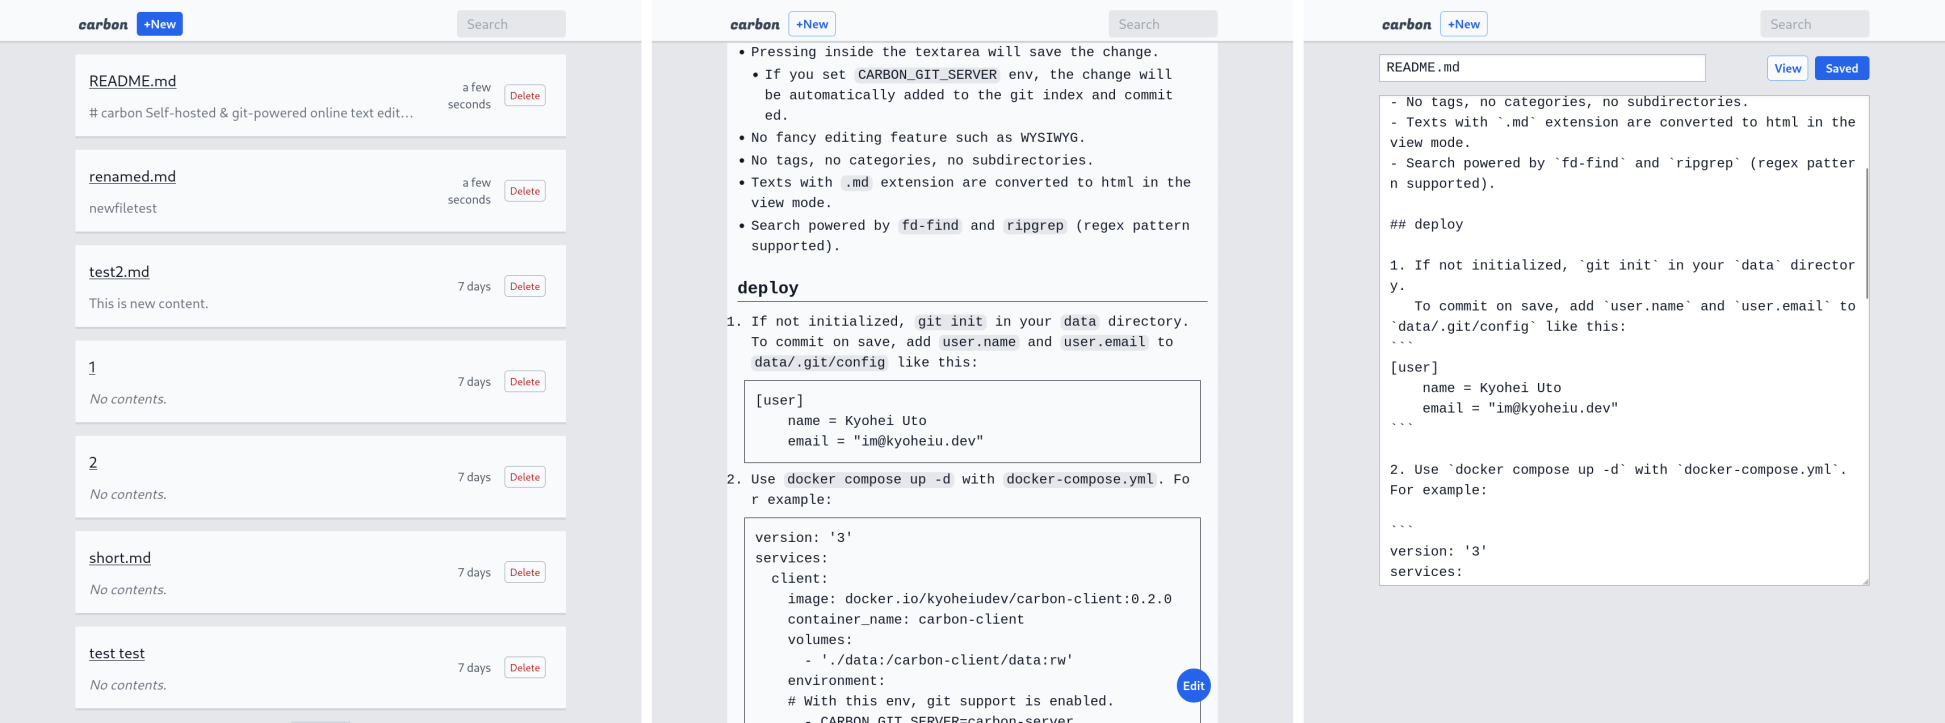
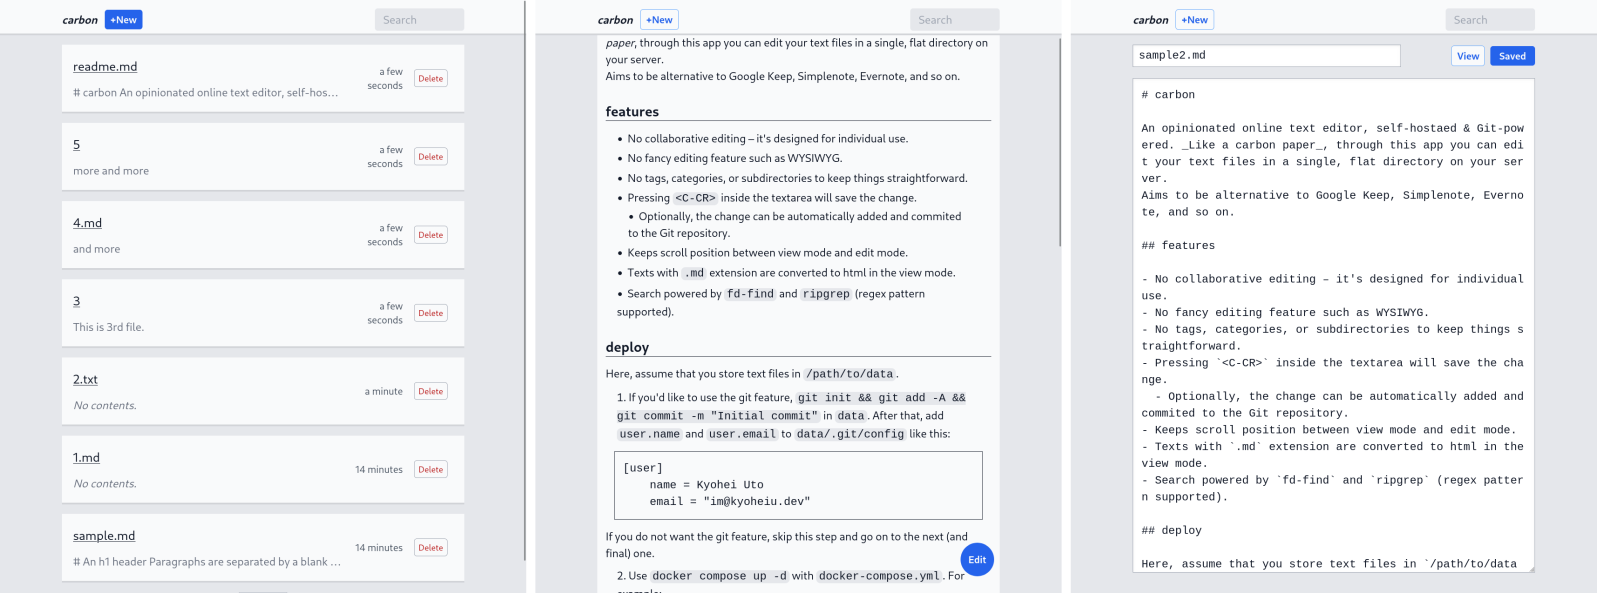
Update README

diff --git a/README.md b/README.md
@@ -1,23 +1,26 @@
 # carbon
 
-Self-hosted & git-powered online text editor. Keeps text files in a flat directory structure. Particularly suited for users who prefer a straightforward and Git-integrated text editing experience without fancy features.
+An opinionated online text editor, self-hostaed & Git-powered. _Like a carbon paper_, through this app you can edit your text files in a single, flat directory on your server.  
+Aims to be alternative to Google Keep, Simplenote, Evernote, and so on.
 
 ![screenshot.png](/screenshot/screenshot.png)
 
 ## features
 
-- _Like a carbon paper_, through this app you can edit your text files in a single, flat directory on your server.
+- No collaborative editing – it's designed for individual use.
+- No fancy editing feature such as WYSIWYG or image rendering.
+- No tags, categories, or subdirectories to keep things straightforward.
 - Pressing `<C-CR>` inside the textarea will save the change.
   - Optionally, the change can be automatically added and commited to the Git repository.
-- No fancy editing feature such as WYSIWYG.
-- No tags, no categories, no subdirectories.
-- Keep scroll position between the view mode and edit mode.
+- Keeps scroll position between view mode and edit mode.
 - Texts with `.md` extension are converted to html in the view mode.
 - Search powered by `fd-find` and `ripgrep` (regex pattern supported).
 
 ## deploy
 
-1. If you'd like to use the git feature, `git init && git add -A && git commit -m "Initial commit"` in your directory that contains text files. _Sub direcotries are not supported._
+Here, assume that you store text files in `/path/to/data`.
+
+1. If you'd like to use the git feature, `git init && git add -A && git commit -m "Initial commit"` in `data`.
    After that, add `user.name` and `user.email` to `data/.git/config` like this:
 
 ```
@@ -26,18 +29,20 @@ Self-hosted & git-powered online text editor. Keeps text files in a flat directo
     email = "im@kyoheiu.dev"
 ```
 
+If you do not want the git feature, skip this step and go on to the next (and final) one.
+
 2. Use `docker compose up -d` with `docker-compose.yml`. For example:
 
 ```
 version: '3'
 services:
   client:
-    image: docker.io/kyoheiudev/carbon-client:0.2.0
+    image: docker.io/kyoheiudev/carbon-client:0.2.2
     container_name: carbon-client
     volumes:
       - '/path/to/data:/carbon-client/data:rw'
     environment:
-    # With this env, git support is enabled.
+    # If you do not want the git feature, omit this!
       - CARBON_GIT_SERVER=carbon-server
     ports:
       - 3000:3000
@@ -46,9 +51,9 @@ services:
       options:
         max-size: 1m
         max-file: '3'
-  # If you do not want the git feature, omit `server` entirely!
+  # If you don't want the git feature, omit `server` entirely!
   server:
-    image: docker.io/kyoheiudev/carbon-server:0.2.0
+    image: docker.io/kyoheiudev/carbon-server:0.2.2
     container_name: carbon-server
     # UID and GID that created Git repository.
     user: '1000:1000'
@@ -61,7 +66,6 @@ services:
       - CARBON_GIT_USER="carbon"
       # default to 'git@example.com'
       - CARBON_GIT_EMAIL="git@example.com"
-      - CARBON_DATA_PATH=data
     logging:
       driver: json-file
       options:
@@ -75,6 +79,7 @@ And the app will start listening on port 3000.
 
 - frontend
   - SvelteKit
+  - tailwind
 - server to support git
   - rust(axum)
   - libgit2
